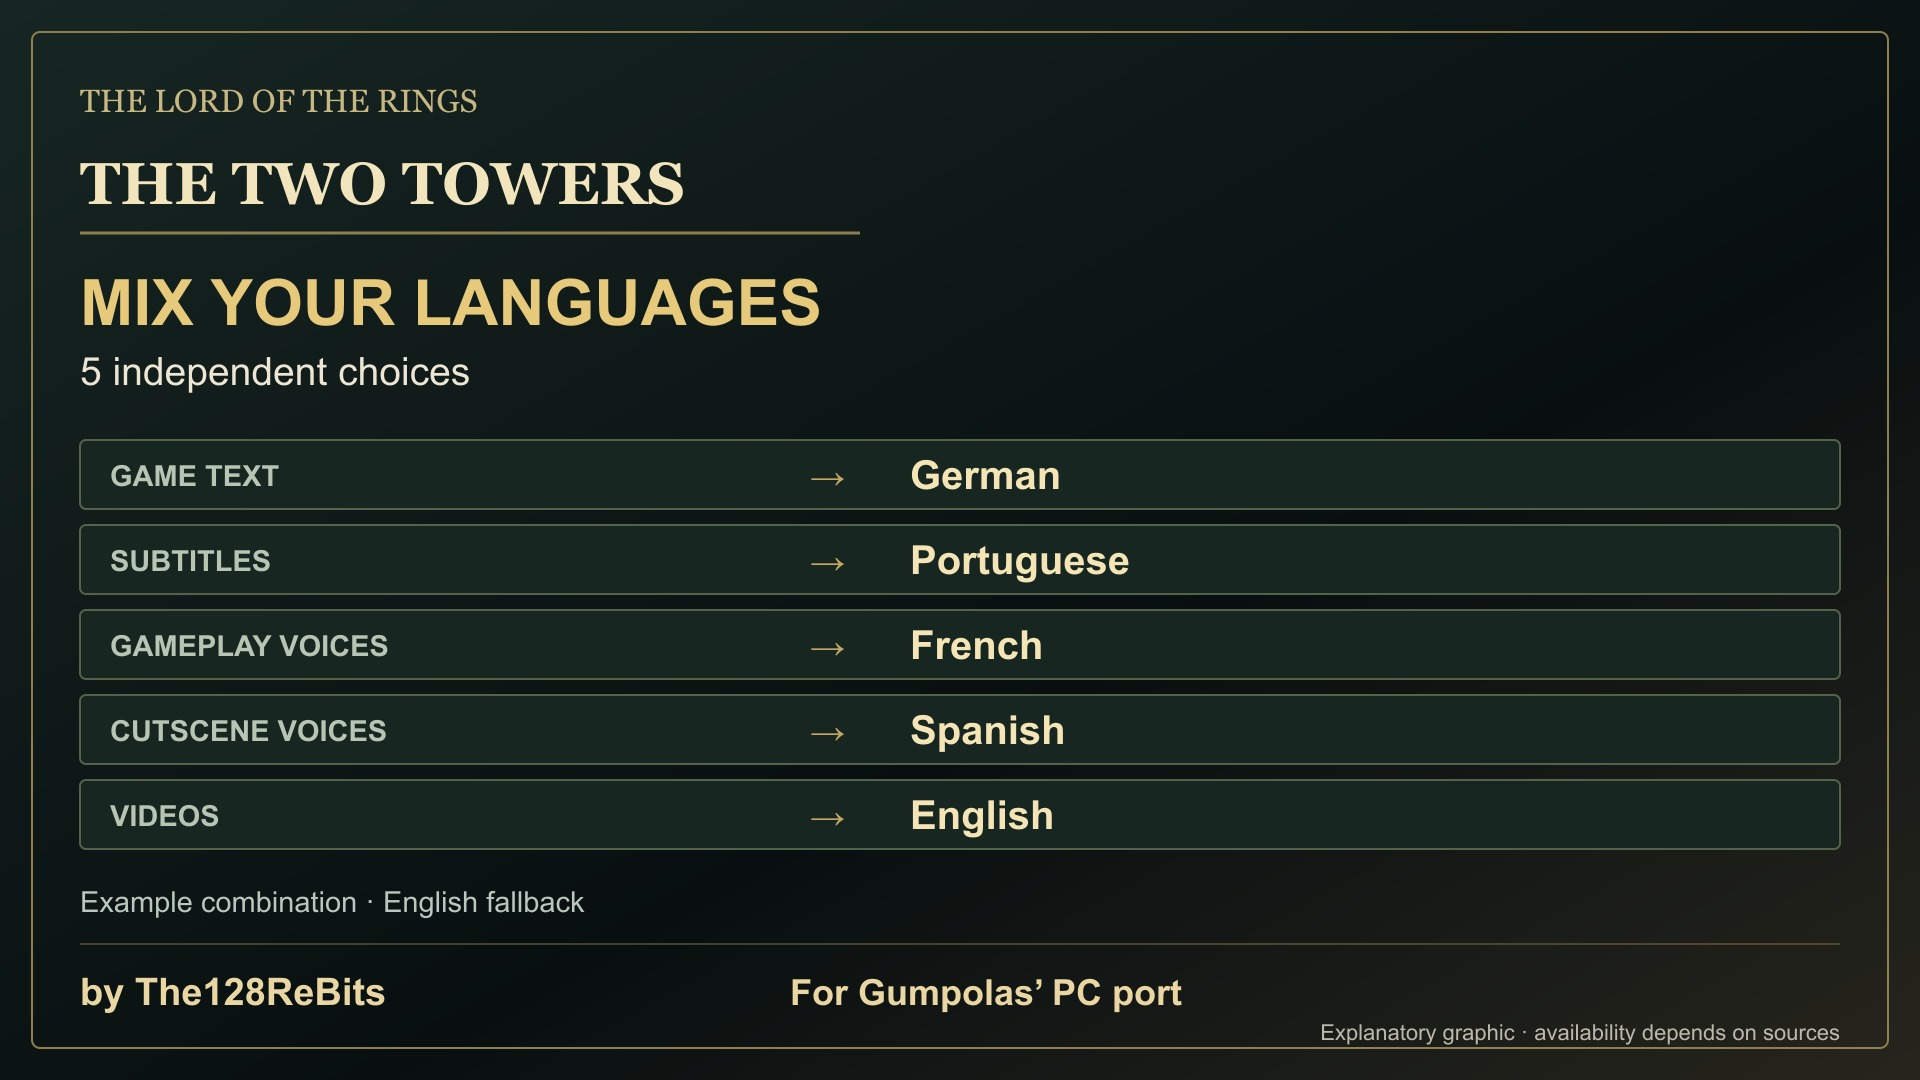
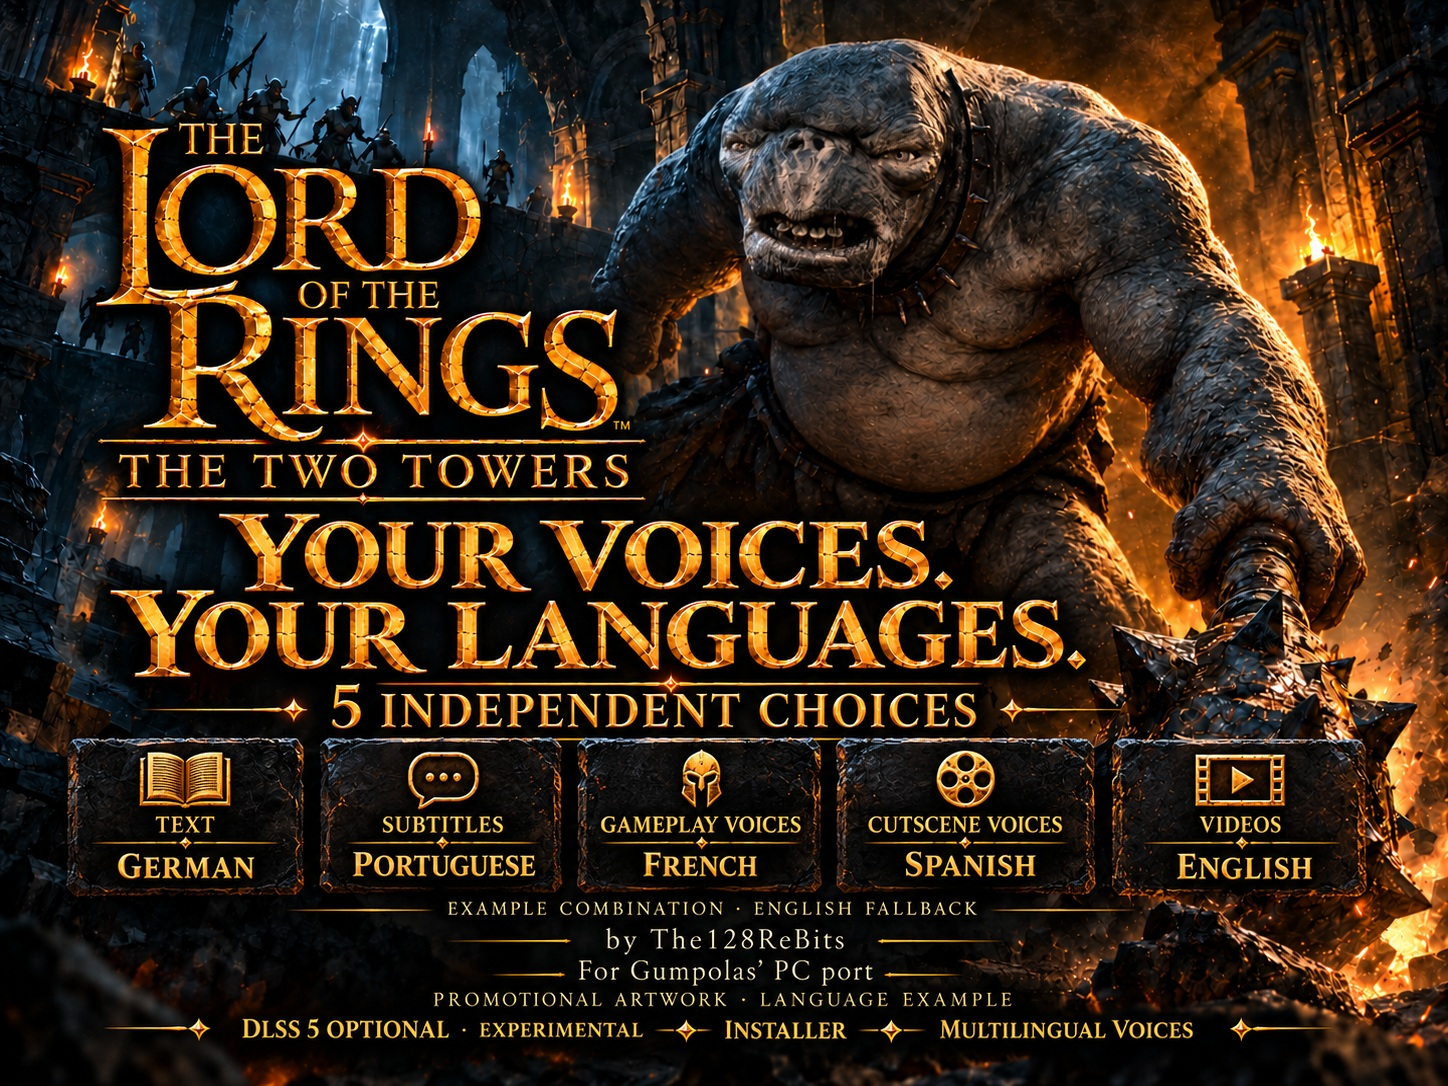
Add matching troll, hero and language posters with artwork disclosure

diff --git a/assets/README.md b/assets/README.md
@@ -2,6 +2,8 @@
 
 By The128ReBits, for Gumpolas’ original The Two Towers Recompiled PC port.
 
-These layouts use real development gameplay captured on 21 October 2026. They are promotional montages, not single gameplay frames or certification of the released build. The language graphic is explanatory, not an installer screenshot. No characters were generated or substituted with AI.
+The cover, Cave troll, roster and language posters are AI-assisted promotional illustrations, labelled as artwork. They are not screenshots or evidence of the game’s rendered appearance. The Cave troll design follows the appearance references supplied by The128ReBits. The roster uses development gameplay as visual reference; its inset panels are interpreted illustrations, not untouched screenshots.
 
-The Cave troll is the main image. Other cover panels show Gandalf the White, the Elven archer and the Uruk captain. Elrond and Sauron are original extras by Gumpolas and are not marketed as new additions here.
+Actual development captures are provided separately as gameplay_troll.jpg, gameplay_archer.jpg, gameplay_gandalf.jpg and gameplay_uruk.jpg. They show the Cave troll, Elven archer, Gandalf the White and Uruk captain from 21 October 2026 and do not certify the released package. The language image illustrates five independent settings; it is not the installer interface.
+
+Elrond and Sauron are Gumpolas’ original extras. GLOS69 is a separate publication.
